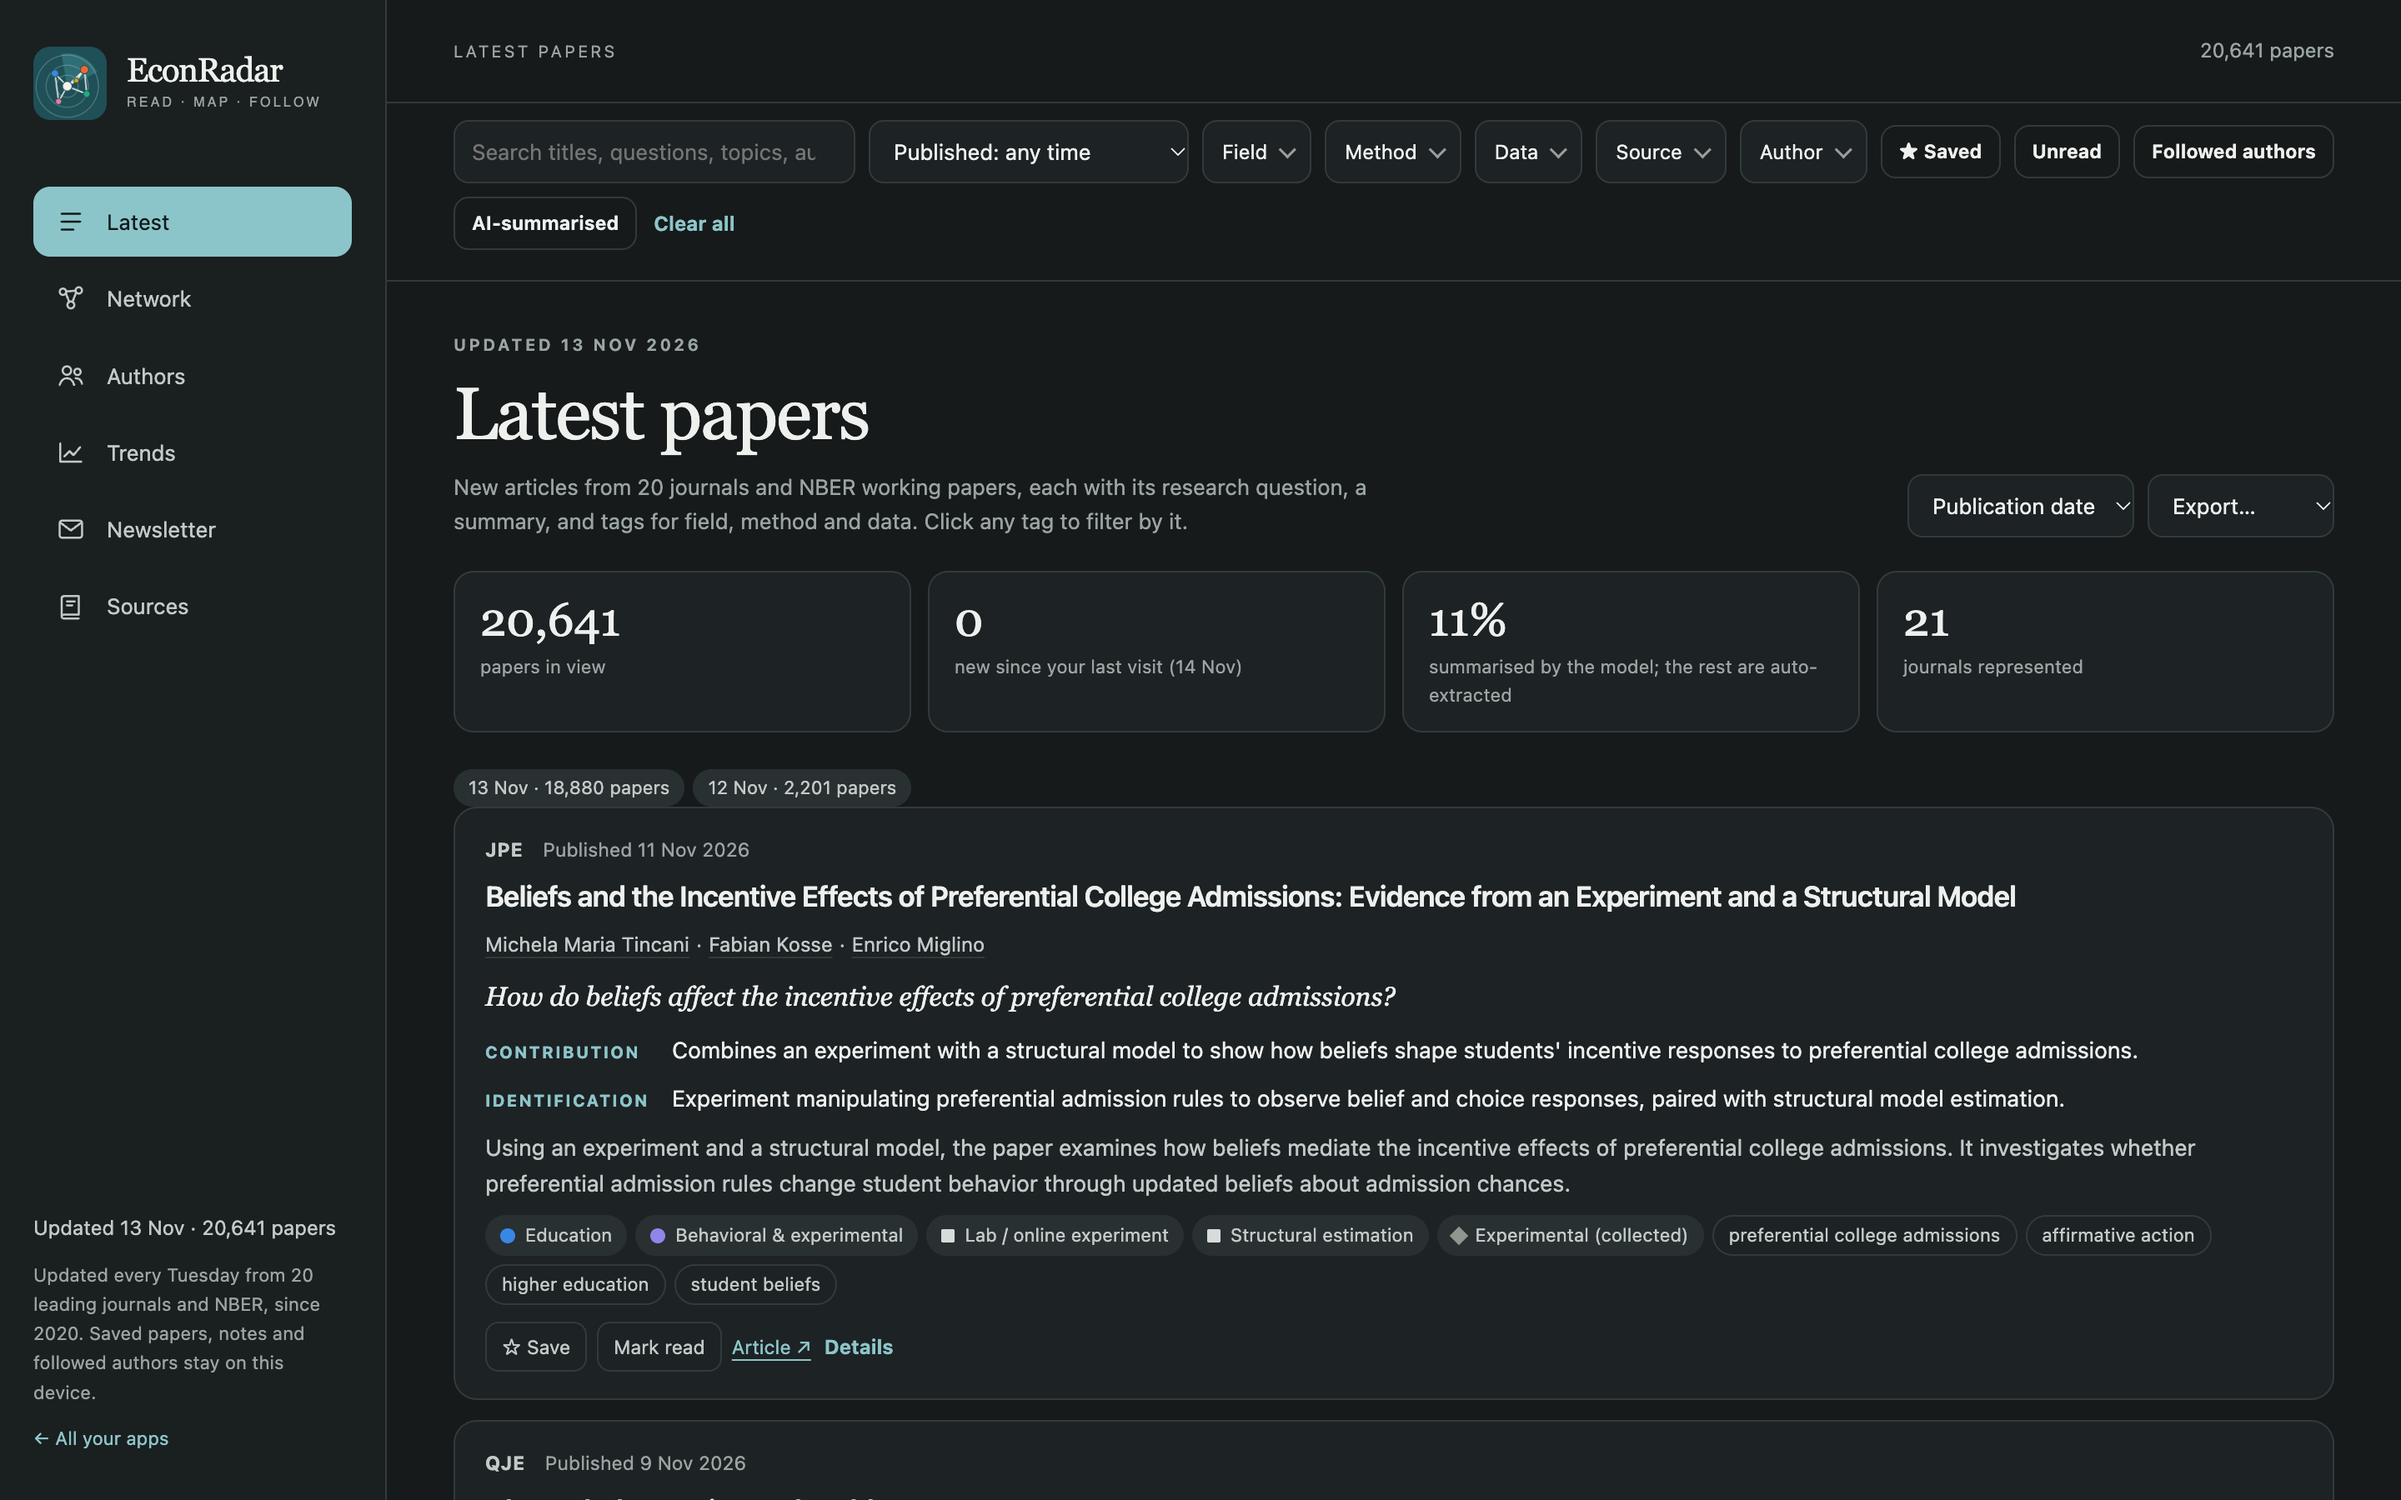
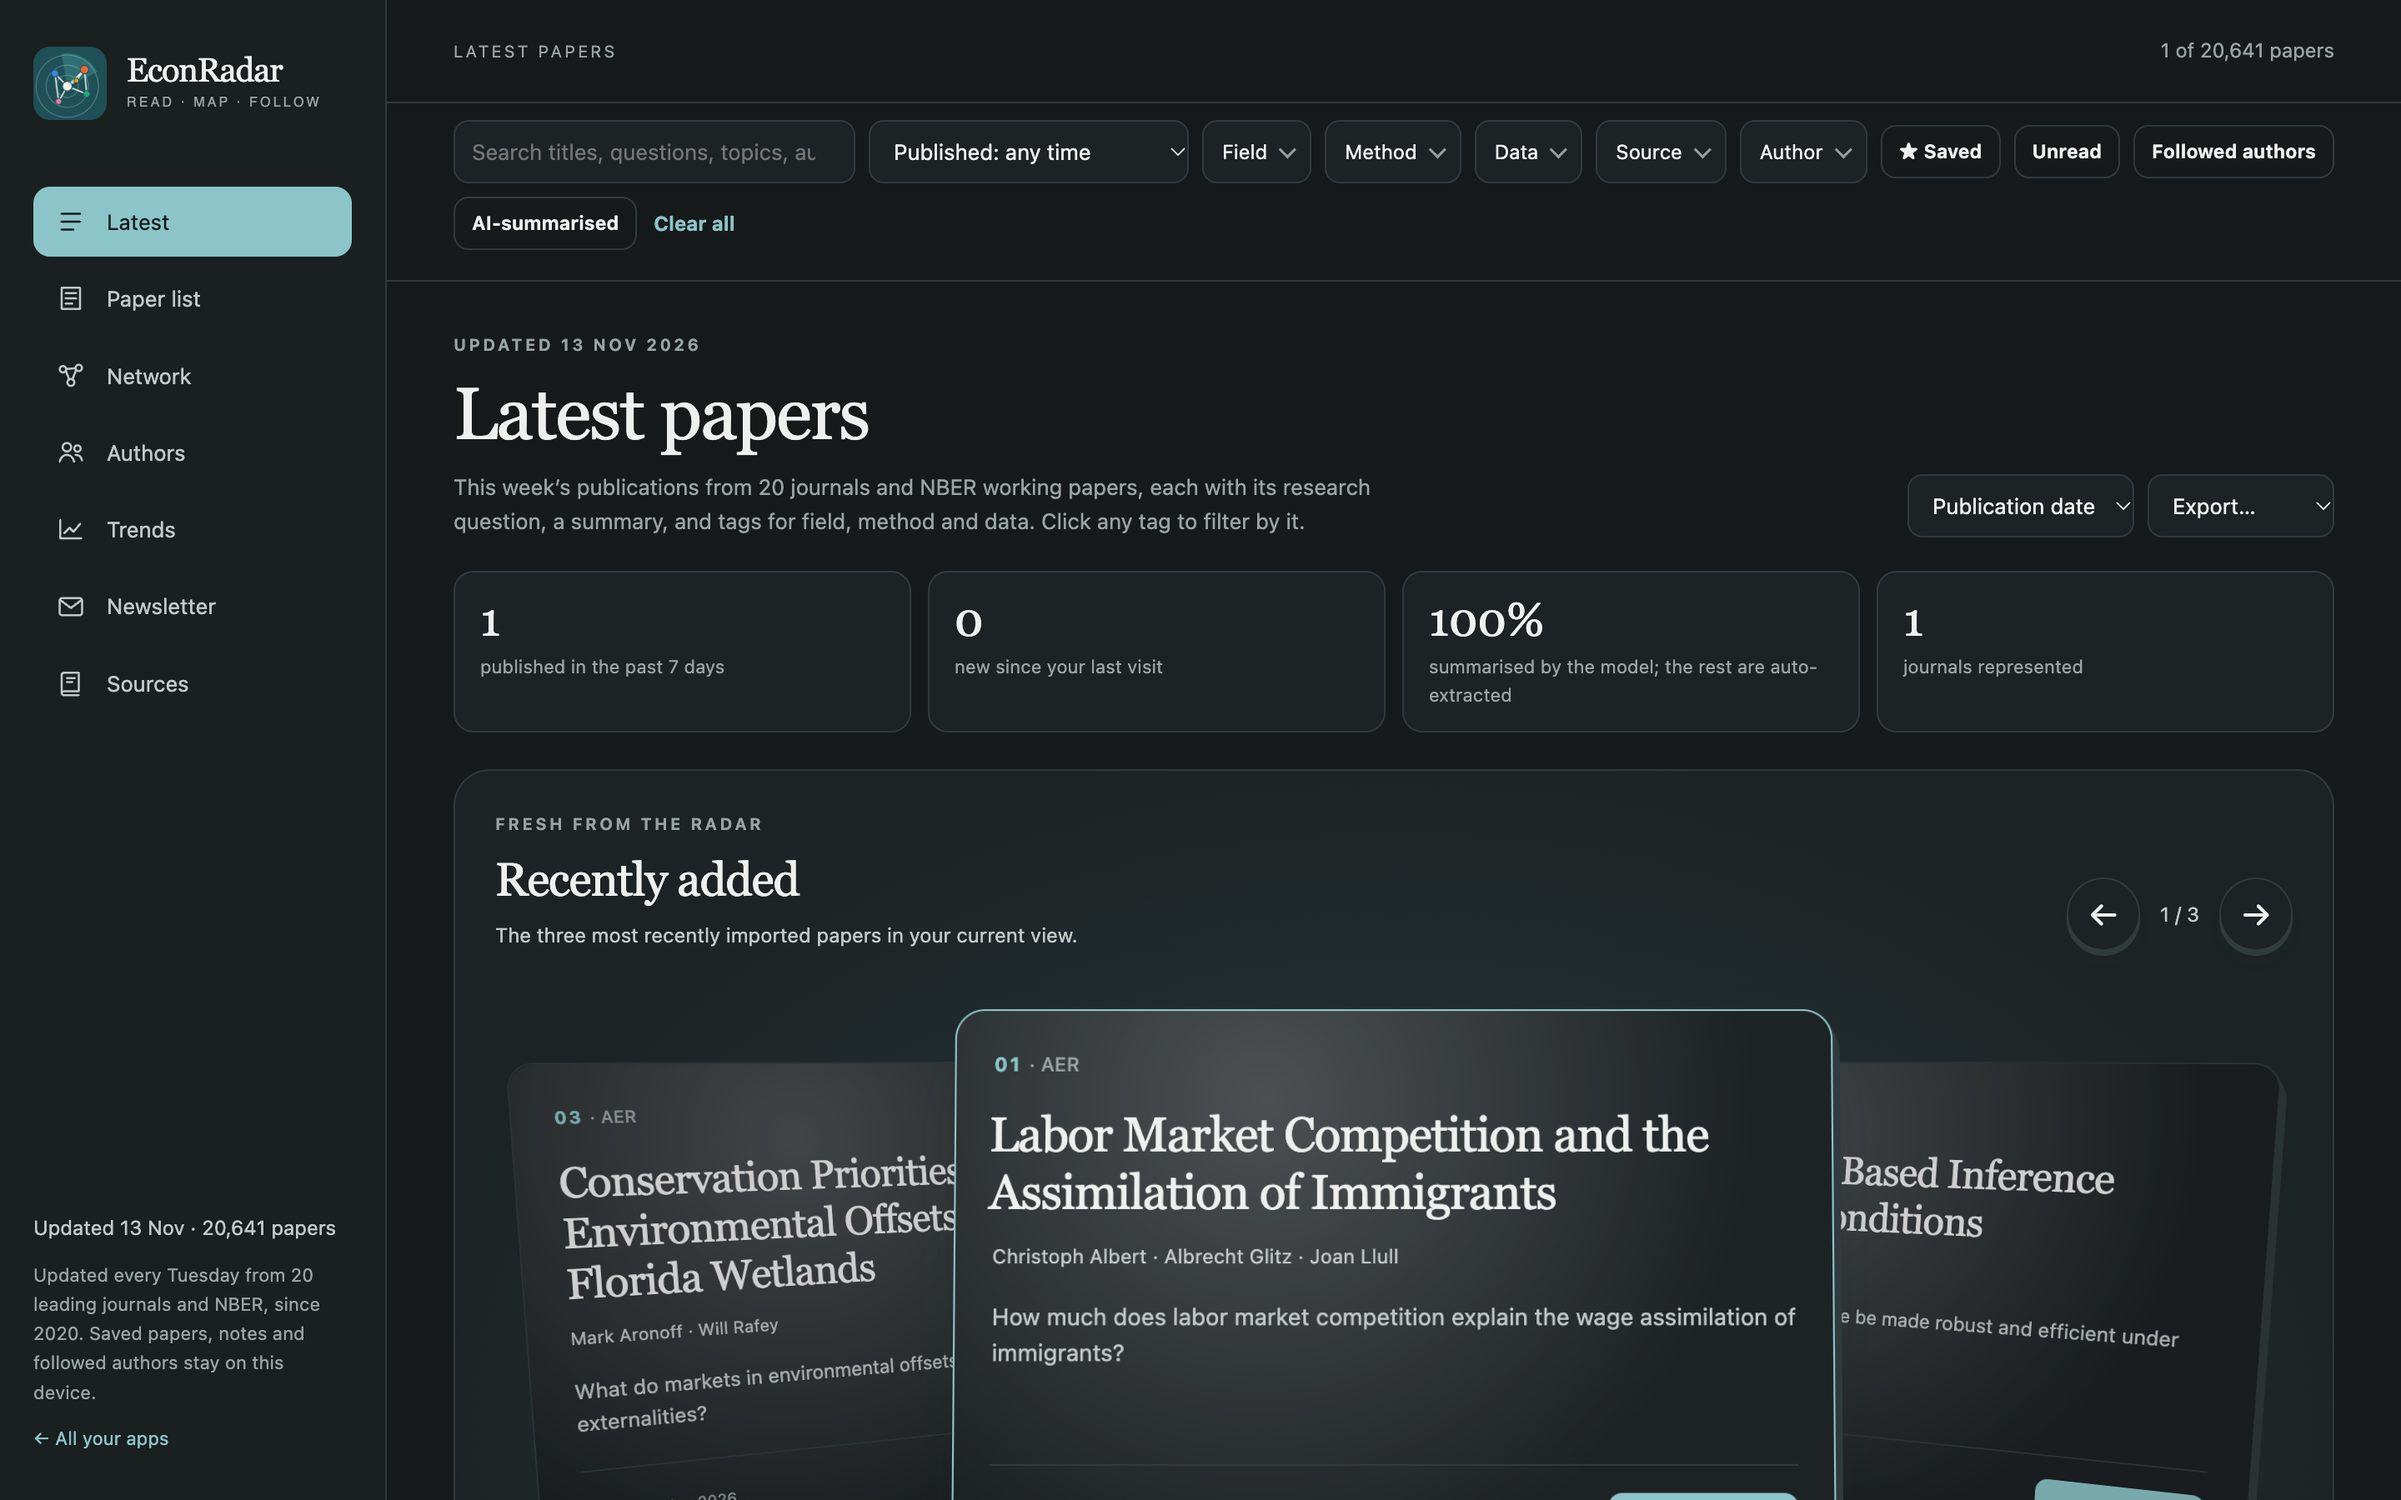
Wording fixes, new home tagline, updated Latest papers screenshot

diff --git a/docs/econradar.html b/docs/econradar.html
@@ -6,7 +6,7 @@
 
 <meta name="viewport" content="width=device-width, initial-scale=1.0, user-scalable=yes">
 
-<meta name="description" content="My little app to keep in touch with the literature weekly, and now it’s yours too!">
+<meta name="description" content="My little app to keep up with the literature weekly, and now it’s yours too!">
 
 <title>EconRadar – Romain Fernex</title>
 <style>
@@ -92,7 +92,7 @@ background: #f3f6fa;
 
 <link rel="stylesheet" href="styles.css">
 <meta property="og:title" content="EconRadar">
-<meta property="og:description" content="My little app to keep in touch with the literature weekly, and now it’s yours too!">
+<meta property="og:description" content="My little app to keep up with the literature weekly, and now it’s yours too!">
 <meta property="og:image" content="https://rfernex.github.io/assets/econradar/latest-dark.png">
 <meta property="og:site_name" content="Romain Fernex">
 <meta property="og:image:alt" content="EconRadar's list of latest papers, each with its journal, publication date, research question, contribution, identification strategy and tags.">
@@ -190,7 +190,7 @@ background: #f3f6fa;
 <div class="rh-inner">
   <span class="eyebrow">Read · Map · Follow</span>
   <h1 class="rh-title">EconRadar</h1>
-  <p class="rh-sub">My little app to keep in touch with the literature weekly, and now it's yours too!</p>
+  <p class="rh-sub">My little app to keep up with the literature weekly, and now it's yours too!</p>
   <a class="radar-launch" href="https://rfernex.github.io/Apps/radar/">
     <span class="rl-ping" aria-hidden="true"></span>
     <span class="rl-label">Open EconRadar</span>
@@ -202,8 +202,8 @@ background: #f3f6fa;
 </div>
 <p>Let’s be honest, keeping track of all that is coming out is not always easy (especially if, like me, you tend to shun Twitter…), let alone keeping a bird’s-eye view of how all those new papers might relate to (or differ from) one another. That’s exactly why this little app is here to help! Now, here are the three things the app does that could genuinely save you time or help you look differently at the current research landscape in your preferred field:</p>
 <ul>
-<li><strong>What’s out there?</strong> The number one goal of the app is obviously to reference as many publications as possible, with new ones added every week, so you don’t miss your next life-changing paper that’s going to make you rethink your whole career. For now, I set up the app to scrape data from NBER as well as the top 20 econ journals, but I might expand the pool in the near future (especially when it comes to domains of economics that are a bit more niche, like econ history, where smaller journals definitely have interesting things to show).</li>
-<li><strong>How does it fit in the great scheme of things?</strong> Knowing a paper exists is nice, yes, but unless you are already very well informed about a literature or your brain never runs out of memory, it might be hard to identify on the spot how it distinguishes itself from prior work on a related subject or, conversely, what it takes from them. This is what the network tab is for! By providing a synthetic view of the full database available on EconRadar, you can quickly dive into a paper, topic or research method of your choice and get a good feel for where it fits with the rest. This is especially useful to try and pin down one of those annoying research gaps that keep evading you.</li>
+<li><strong>What’s out there?</strong> The number one goal of the app is obviously to reference as many publications as possible, with new ones added every week, so you don’t miss your next life-changing paper that’s going to make you rethink your whole career. For now, I set up the app to scrape data from NBER as well as the top 20 econ journals, but I might expand the pool in the near future (especially when it comes to fields of economics that are a bit more niche, like econ history, where smaller journals definitely have interesting things to show).</li>
+<li><strong>How does it fit in the grand scheme of things?</strong> Knowing a paper exists is nice, yes, but unless you are already very well informed about a literature or your brain never runs out of memory, it might be hard to identify on the spot how it distinguishes itself from prior work on a related subject or, conversely, what it takes from them. This is what the network tab is for! By providing a synthetic view of the full database available on EconRadar, you can quickly dive into a paper, topic or research method of your choice and get a good feel for where it fits with the rest. This is especially useful to try and pin down one of those annoying research gaps that keep evading you.</li>
 <li><strong>Who does what?</strong> As in any line of work, if you want to work on something, it’s always better to know who wrote about it first. The author page essentially gives you a detailed list of all recent contributors in your field of interest and lets you create your own list of top authors based on their contributions, research interests and so on.</li>
 </ul>
 <div class="quarto-figure quarto-figure-center">

diff --git a/docs/index.html b/docs/index.html
@@ -179,13 +179,13 @@ background: #f3f6fa;
 <p><img src="Resources/Photo_Romain_Fernex.jpg" alt="Portrait of Romain Fernex" width="200" height="240"></p>
 </div>
 <div class="hero-text">
-<p><span class="eyebrow">Economics · Labour · Applied econometrics</span></p>
+<p><span class="eyebrow">Labour Economics · Applied Microeconomics · Applied Econometrics</span></p>
 <section id="romain-fernex" class="level1 unnumbered">
 <h1 class="unnumbered">Romain Fernex</h1>
 <div class="intro">
-<p>Hello! I am a predoctoral research assistant at <strong>Bocconi University (IGIER)</strong>, working with <strong>Giulia Giupponi</strong> and <strong>Thomas Le Barbanchon</strong> on projects related to Labour Economics and Polical Economy.</p>
+<p>Hello! I am a predoctoral research assistant at <strong>Bocconi University (IGIER)</strong>, working with <strong>Giulia Giupponi</strong> and <strong>Thomas Le Barbanchon</strong> on projects related to Labour Economics and Political Economy.</p>
 </div>
-<p>My work and academic projects focus mainly on labour and public economics, with a strong interest for topics that relate to socio-economic inequalities and alternative forms of employment (notably pluriactivity and self-employment which are at the core of my thesis). Be it as a RA or for my own projects, I like combining applied econometrics with structural modelling to quantify and understand economic mechanism in depths and am always open to trying new methods in computational social sciences wherever they genuinely outperform the old (especially when it comes to NLP !).</p>
+<p>My work and academic projects focus mainly on labour and public economics, with a strong interest in topics that relate to socio-economic inequalities and alternative forms of employment (notably multiple jobholding and self-employment, which are at the core of my thesis). Be it as an RA or for my own projects, I like combining applied econometrics with structural modelling to quantify and understand economic mechanisms in depth and am always open to trying new methods in computational social sciences wherever they genuinely outperform the old (especially when it comes to NLP!).</p>
 <div class="btn-row">
 <p><a href="Resources/CV_Romain_Fernex.pdf" class="btn-cta">Download my CV</a> <a href="./thesis.html" class="btn-ghost">Master thesis</a> <a href="./Research.html" class="btn-ghost">Research experience</a></p>
 </div>
@@ -196,7 +196,7 @@ background: #f3f6fa;
 <div class="column-page home-grid">
 <section id="about" class="level2 unnumbered">
 <h2 class="unnumbered anchored" data-anchor-id="about">About</h2>
-<p>I graduated from Sciences Po in 2026 (MPhil. Economics), following a Master in Management (major in Finance) at ESCP Business School and a dual-degree in consulting and data science at Korea University. Before joining IGIER, I worked as a research assistant to Jean-Marc Robin on testing a ML model (ridge) for firm and worker fixed effects estimations. This involved comparing how well this new estimator performed for this taks relative to standard biased and non debiased OLS models usually found in the AKM literature.</p>
+<p>I graduated from Sciences Po in 2026 (MPhil in Economics), following a Master in Management (major in Finance) at ESCP Business School and a dual degree in consulting and data science at Korea University. Before joining IGIER, I worked as a research assistant to Jean-Marc Robin on testing an ML model (ridge) for firm and worker fixed effects estimation. This involved comparing how well this new estimator performed for this task relative to the standard (biased) and debiased OLS models usually found in the AKM literature.</p>
 <div class="chips">
 <p><span class="chip">Labour economics</span> <span class="chip">Political Economy</span> <span class="chip">Inequality</span> <span class="chip">Structural modelling</span> <span class="chip">Applied econometrics</span> <span class="chip">Computational Social Sciences</span> <span class="chip">NLP</span></p>
 </div>

diff --git a/docs/about.html b/docs/about.html
@@ -88,7 +88,7 @@ background: #f3f6fa;
 
 <link rel="stylesheet" href="styles.css">
 <meta property="og:title" content="Let’s get in touch! – Romain Fernex">
-<meta property="og:description" content="Feel free to reach out to me if you want to discuss research project or collaboration opportunities!">
+<meta property="og:description" content="Feel free to reach out to me if you want to discuss research projects or collaboration opportunities!">
 <meta property="og:site_name" content="Romain Fernex">
 </head>
 
@@ -165,7 +165,7 @@ background: #f3f6fa;
   <div class="quarto-title-banner page-columns page-full">
     <div class="quarto-title column-body">
       <h1 class="title">Let’s get in touch!</h1>
-            <p class="subtitle lead">Feel free to reach out to me if you want to discuss research project or collaboration opportunities!</p>
+            <p class="subtitle lead">Feel free to reach out to me if you want to discuss research projects or collaboration opportunities!</p>
                       </div>
   </div>
     

diff --git a/docs/projects.html b/docs/projects.html
@@ -204,7 +204,7 @@ background: #f3f6fa;
 <p><span class="eyebrow">Text analysis</span></p>
 <section id="bank-of-japan-communication" class="level3">
 <h3 class="anchored" data-anchor-id="bank-of-japan-communication">Bank of Japan communication</h3>
-<p>A text-analysis project in R and Python exploring linguistic and thematic signals in Bank of Japan speeches and statements in relation to interest-rate decisions. I have put this project on ICE for the moment but do intend to return to it at some point when I can spare the time…</p>
+<p>A text-analysis project in R and Python exploring linguistic and thematic signals in Bank of Japan speeches and statements in relation to interest-rate decisions. I have put this project on ice for the moment but do intend to return to it at some point when I can spare the time…</p>
 <p><a href="https://github.com/Rfernex/Personal-Projects/tree/main/Project%20BoJ%20%28Ongoing%29">Explore the code ↗</a></p>
 </section>
 </div>

diff --git a/docs/Coursework.html b/docs/Coursework.html
@@ -88,7 +88,7 @@ background: #f3f6fa;
 
 <link rel="stylesheet" href="styles.css">
 <meta property="og:title" content="Papers &amp; coursework – Romain Fernex">
-<meta property="og:description" content="Find below all the papers and essays I wrote as a master student at Sciences Po!">
+<meta property="og:description" content="Below are all the papers and essays I wrote as a master’s student at Sciences Po!">
 <meta property="og:site_name" content="Romain Fernex">
 </head>
 
@@ -165,7 +165,7 @@ background: #f3f6fa;
   <div class="quarto-title-banner page-columns page-full">
     <div class="quarto-title column-body">
       <h1 class="title">Papers &amp; coursework</h1>
-            <p class="subtitle lead">Find below all the papers and essays I wrote as a master student at Sciences Po!</p>
+            <p class="subtitle lead">Below are all the papers and essays I wrote as a master’s student at Sciences Po!</p>
                       </div>
   </div>
     
